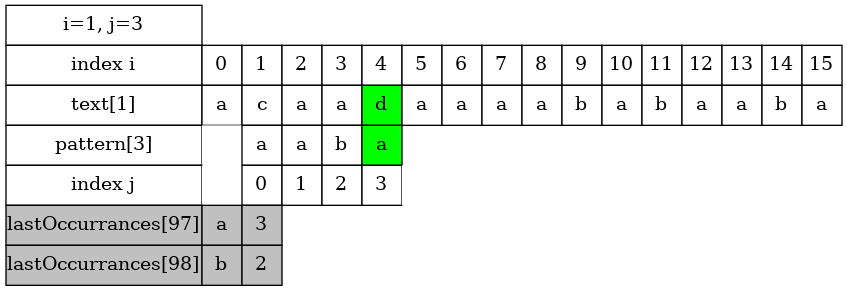
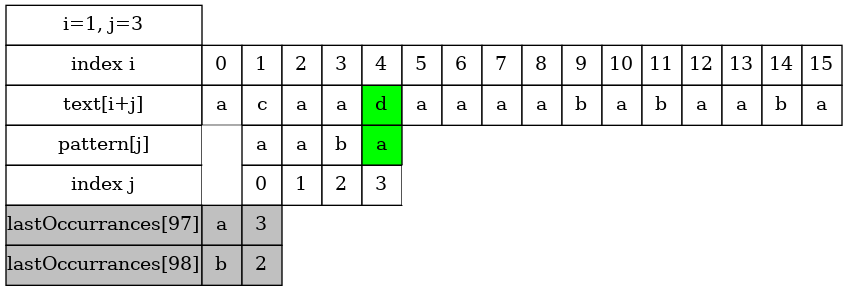
Update Strings/BoyerMooreBadChar

Changed region(s): [[0.0614, 0.4639, 0.1842, 0.5258], [0.0614, 0.3093, 0.1842, 0.4021]]

diff --git a/Strings/BoyerMooreBadChar/src/Array2Dot.c b/Strings/BoyerMooreBadChar/src/Array2Dot.c
@@ -26,7 +26,8 @@ static void PrintHtmlTable(FILE *dotFile,
     fprintf(dotFile, "</tr> \n");
 
     fprintf(dotFile, "<tr> \n");
-    fprintf(dotFile, "<td width=\"30\" height=\"30\" bgcolor=\"white\">text[%ld]</td> \n", startTxt);
+    //fprintf(dotFile, "<td width=\"30\" height=\"30\" bgcolor=\"white\">text[%ld]</td> \n", startTxt);
+    fprintf(dotFile, "<td width=\"30\" height=\"30\" bgcolor=\"white\">text[i+j]</td> \n");
     for (long i = 0; i < n; i++) {
         if (indexPat < 0) {
             if (i < startTxt || i >= startTxt + m) {
@@ -48,7 +49,8 @@ static void PrintHtmlTable(FILE *dotFile,
 
     // pattern
     fprintf(dotFile, "<tr> \n");   
-    fprintf(dotFile, "<td width=\"30\" height=\"30\" bgcolor=\"white\">pattern[%ld]</td> \n", indexPat);
+    //fprintf(dotFile, "<td width=\"30\" height=\"30\" bgcolor=\"white\">pattern[%ld]</td> \n", indexPat);
+    fprintf(dotFile, "<td width=\"30\" height=\"30\" bgcolor=\"white\">pattern[j]</td> \n");
     for (long i = 0; i < n;) {
         if (i < startTxt) {
             fprintf(dotFile, "<td border=\"0\" width=\"30\" height=\"30\" bgcolor=\"white\"> </td> \n");
